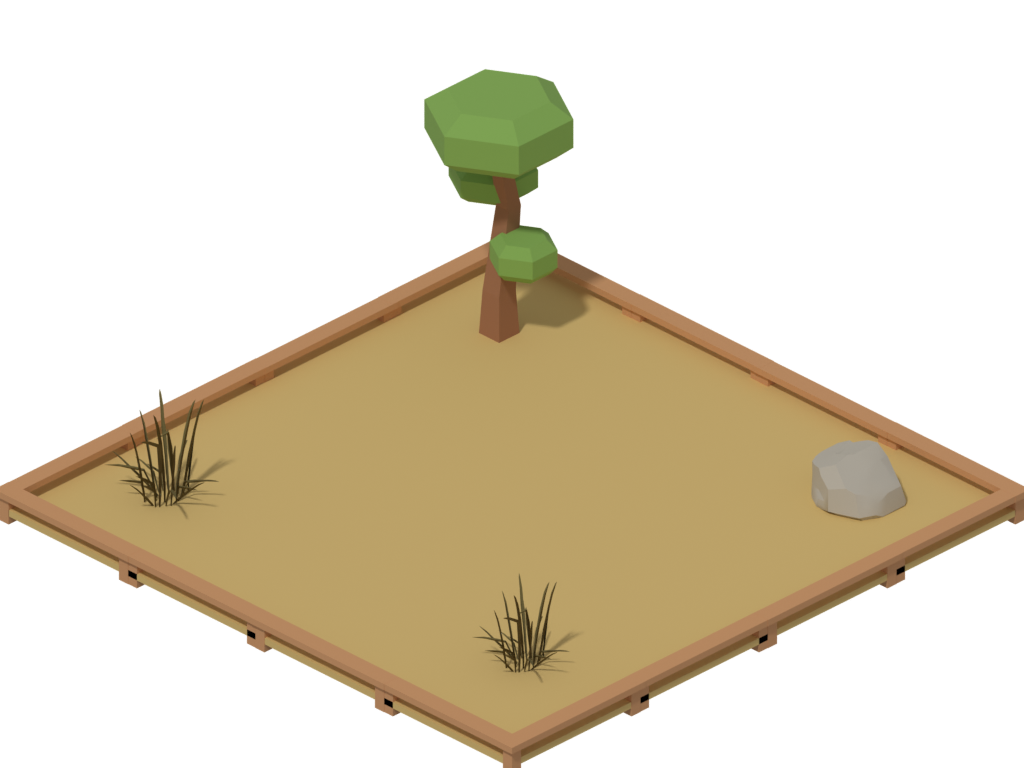
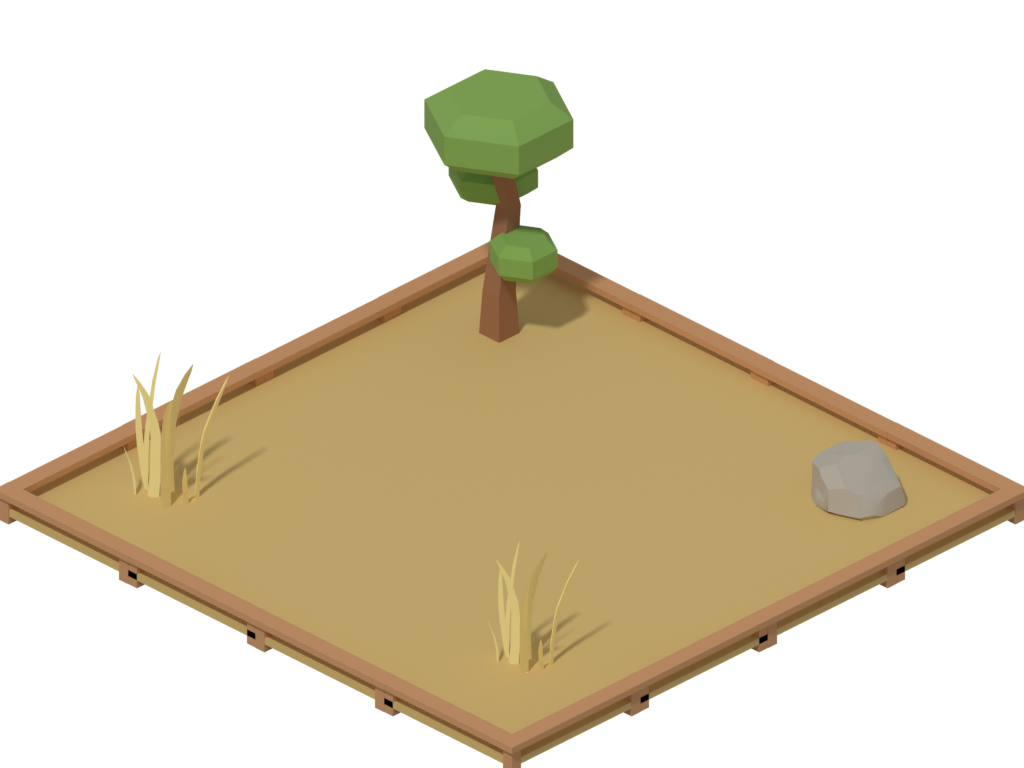
fix(art): brighten grass in pond and enclosures
Grass_Wispy_Tall rendered almost black. Swap it for short grass with a
flat tint and a soft glow so back faces stay light. Drop the lilies that
rendered black under the water.

Changed region(s): [[0.0938, 0.4688, 0.25, 0.6875], [0.4688, 0.75, 0.5625, 0.875]]

diff --git a/tools/blender/parts.py b/tools/blender/parts.py
@@ -11,9 +11,9 @@ CYLINDER_SEGMENTS = 24
 FENCE_JITTER = 0.004
 
 
-def build(parts: list, palette: dict, art_dir: str, flat: list) -> None:
+def build(parts: list, palette: dict, art_dir: str, flat: list, glow: list) -> None:
     for part in _expand(parts):
-        root = _model(part, palette, art_dir, flat) if "m" in part else _shape(part)
+        root = _model(part, palette, art_dir, flat, glow) if "m" in part else _shape(part)
         at = part.get("at", [0.0, 0.0])
         root.location = (at[0], -at[1], float(part.get("y", 0.0)))
         root.rotation_euler.z = math.radians(float(part.get("r", 0.0)))
@@ -74,13 +74,13 @@ def _rotate(vector: tuple, angle: float) -> tuple:
     return (vector[0] * cos - vector[1] * sin, vector[0] * sin + vector[1] * cos)
 
 
-def _model(part: dict, palette: dict, art_dir: str, flat: list) -> bpy.types.Object:
+def _model(part: dict, palette: dict, art_dir: str, flat: list, glow: list) -> bpy.types.Object:
     root = import_model(_model_path(art_dir, part["m"]))
     tints = {**palette, **part.get("tint", {})}
     for body in root.children_recursive:
         for slot in getattr(body, "material_slots", []):
             if slot.material is not None:
-                _restyle(slot.material, tints, flat)
+                _restyle(slot.material, tints, flat, glow)
     return root
 
 
@@ -92,7 +92,7 @@ def _model_path(art_dir: str, name: str) -> str:
     raise FileNotFoundError(name)
 
 
-def _restyle(material: bpy.types.Material, tints: dict, flat: list) -> None:
+def _restyle(material: bpy.types.Material, tints: dict, flat: list, glow: list) -> None:
     bsdf = _principled(material)
     if bsdf is None:
         return
@@ -111,6 +111,9 @@ def _restyle(material: bpy.types.Material, tints: dict, flat: list) -> None:
             bsdf.inputs["Emission Strength"].default_value = FOLIAGE_GLOW
     elif tint is not None:
         base.default_value = srgb_to_linear(tint)
+        if name in glow:
+            bsdf.inputs["Emission Color"].default_value = base.default_value
+            bsdf.inputs["Emission Strength"].default_value = FOLIAGE_GLOW
 
 
 def _link_texture(tree: bpy.types.NodeTree, base: bpy.types.NodeSocket, tint) -> bpy.types.NodeSocket:

diff --git a/tools/blender/render_iso.py b/tools/blender/render_iso.py
@@ -38,7 +38,7 @@ def render_object(stage: dict, palette: dict, key: str, spec: dict) -> None:
     canvas = (base[0] * stage["asset_scale"], base[1] * stage["asset_scale"])
     anchor = (canvas[0] / 2.0, canvas[1] - (width + depth) * 16.0 * stage["asset_scale"])
     iso_scene.reset(stage)
-    parts.build(spec["parts"], palette, ART_DIR, stage["flat_materials"])
+    parts.build(spec["parts"], palette, ART_DIR, stage["flat_materials"], stage["glow_materials"])
     parts.add_shadow_catcher(width, depth)
     iso_scene.frame(stage, canvas, anchor)
     iso_scene.save(iso_scene.fade_shadow_floor(iso_scene.capture(), stage["shadow_floor"]), _target(key))

diff --git a/docs/ESTADO.md b/docs/ESTADO.md
@@ -29,7 +29,7 @@
 - [x] 6.13 Feedback de la beta web: con sync activo, Perfil › Ajustes muestra "Enviar comentario" (categoría error, idea u otro; hasta 1000 caracteres). `POST /v1/feedback` (Zod estricto, 3 por minuto por jugador, `FEEDBACK_LIMITER`) guarda en la tabla `feedback` (migración `0003_feedback.sql`, `ON DELETE CASCADE`, así que "Borrar mis datos del servidor" también lo borra). Guarda versión (`application/config/version`) y plataforma, nada más. La política de privacidad es/en lo menciona. Para leerlo: `npx wrangler d1 execute focus-tycoon --remote --command "SELECT * FROM feedback ORDER BY created_at DESC LIMIT 50"`. Desplegado (migración remota, Worker y web); smoke en producción OK: alta 201, feedback 204, body inválido 400, borrar 204 y luego 401
 - [x] 6.14 Auditoría de seguridad del Worker y del juego: sin críticos ni altos ni secretos. Arreglado: tras un 401 el cliente olvida las claves ya subidas y reenvía todo el ledger a la cuenta nueva (antes quedaban sin subir); un lote rechazado con 400 se salta en vez de bloquear la sync para siempre; las IPv4 mapeadas (`::ffff:a.b.c.d`) cuentan como IPv4 en el rate limit. Riesgos aceptados: el servidor confía en los montos del cliente (el saldo remoto es solo un backup no confiable y nunca se restaura); la purga de inactivos corre solo en cada alta (sin cron, ver 6.6); el ledger local se recorta a 500 entradas y sin conexión puede perder entradas viejas sin subir; el checksum del guardado no tiene clave (detecta corrupción, no trampas, que en un juego offline de un jugador no importan)
 - [x] 6.15 Arte en Blender: objetos y animales se renderizan con Blender 4.5 Cycles (`tools/blender/render_iso.py`, specs en `tools/blender/art_specs.json`), con sol suave y sombra propia. Modelos CC0 nuevos: Quaternius "Stylized Nature MegaKit" (`art/quaternius/`: roble, pino, cerezo, arbustos, seto, helecho, flores, rocas) y animales Gobkit (`art/gobkit/`); Kenney Nature queda para cercas, palmera, cactus, bambú y props. Especies renombradas a modelos disponibles: panda→koala, polar_bear→seal, giraffe→zebra (mismos costos y niveles; el guardado v2 migra los ids). Terreno y caminos siguen en `tools/render_models.gd`. Los PNG viejos de panda, polar_bear y giraffe y los modelos Kenney Cube Pets (`art/kenney/pets/`) se borraron. Web redeployada en https://focus-tycoon.ilandaniele.workers.dev y verificada en Chrome (arte nuevo, la partida guardada carga, consola sin errores)
-- [x] 6.16 Bioma variado: rocas Quaternius ahora gris claro con sombreado plano (`flat_materials` en `art_specs.json`) y agrupadas con pasto. Zona salvaje usa formaciones nuevas `assets/scenery/` (afloramiento, menhir, piedritas, tocón con hongos, pino alto/chico, árbol redondo, árbol retorcido) junto a pino, roble, helecho y arbusto (`scripts/world/scenery.gd`)
+- [x] 6.16 Bioma variado: rocas Quaternius ahora gris claro con sombreado plano (`flat_materials` en `art_specs.json`) y agrupadas con pasto. Zona salvaje usa formaciones nuevas `assets/scenery/` (afloramiento, menhir, piedritas, tocón con hongos, pino alto/chico, árbol redondo, árbol retorcido) junto a pino, roble, helecho y arbusto (`scripts/world/scenery.gd`). Pasto del estanque y los recintos ahora claro: el material `Grass` es plano y con brillo suave (`flat_materials` y `glow_materials`); se sacaron los nenúfares, que salían negros
 
 ## Verificación actual
 - `godot --path . --headless -s res://tests/run_tests.gd`: 231 tests, 0 fallos, 0 `SCRIPT ERROR`. El runner cuenta como fallo un script de test que no compila y un test que dispara un error de script en ejecución (un `Logger` registrado con `OS.add_logger` los cuenta).
